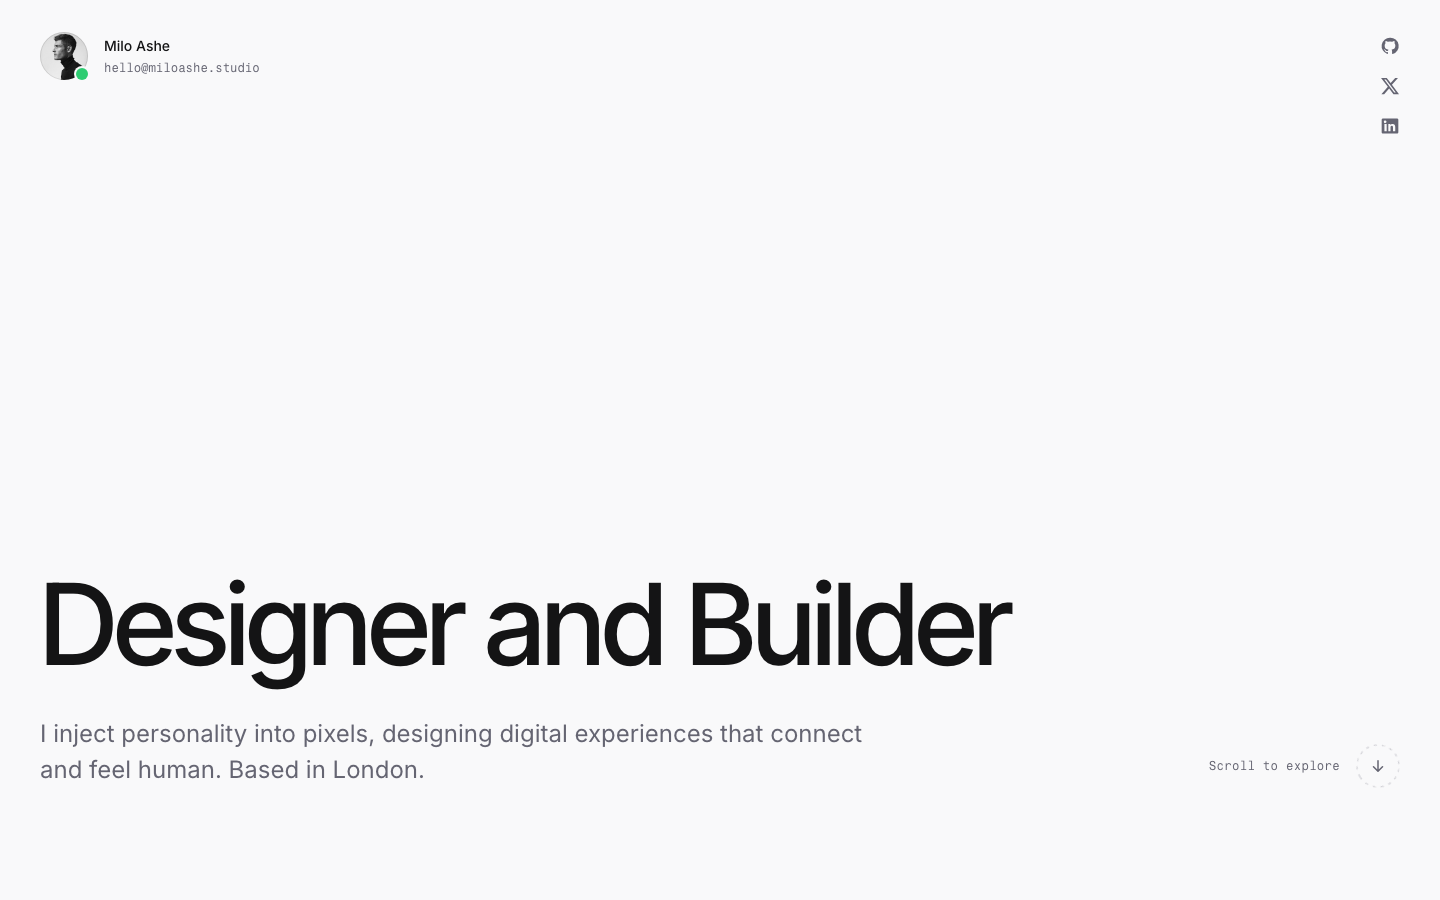
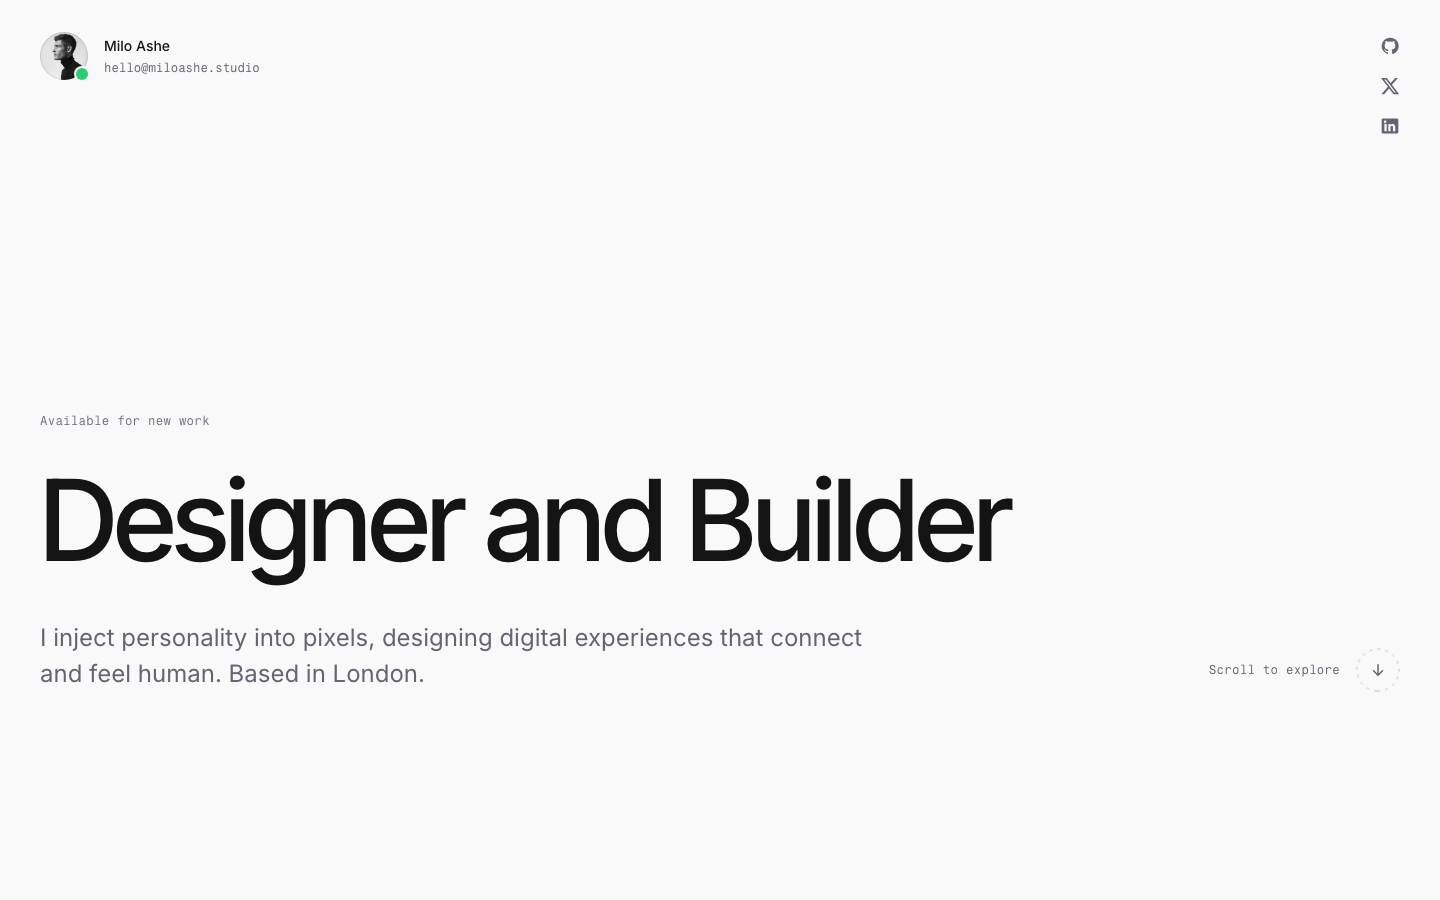
latest updates

Changed region(s): [[0.0312, 0.5289, 0.7188, 0.7778], [0.0312, 0.8089, 0.5938, 0.8711]]

diff --git a/files/resources/views/components/sections/hero.blade.php b/files/resources/views/components/sections/hero.blade.php
@@ -2,6 +2,7 @@
     'avatar' => '/images/avatar.jpg',
     'showStatus' => '1',
     'email' => 'hello@miloashe.studio',
+    'eyebrow' => 'Available for new work',
     'heading' => 'Designer and Builder',
     'intro' => 'I inject personality into pixels, designing digital experiences that connect and feel human. Based in London.',
     'showScroll' => '1',
@@ -10,11 +11,12 @@
 <!--
     The opening viewport: identity row pinned to the top (avatar with the
     green live dot, name and mono email, stacked social icons on the right),
-    then the giant statement headline anchored low with the intro copy and
-    the spinning scroll ring sharing the bottom edge.
+    then the statement block anchored low: a mono availability eyebrow, the
+    giant display headline, and a bottom rail carrying the intro copy and
+    the spinning scroll ring.
 -->
 <section id="top" class="relative">
-    <div class="mx-auto flex min-h-[92svh] w-full max-w-[100rem] flex-col justify-between px-5 pt-6 pb-10 sm:px-8 sm:pt-8 lg:px-10">
+    <div class="mx-auto flex min-h-[84svh] w-full max-w-[100rem] flex-col justify-between gap-16 px-5 pt-6 pb-12 sm:px-8 sm:pt-8 sm:pb-16 lg:px-10">
 
         <div class="flex items-start justify-between gap-6">
             <div class="flex items-center gap-4">
@@ -24,9 +26,9 @@
                     <span class="absolute right-0 bottom-0 size-3 rounded-full bg-live ring-2 ring-canvas"></span>
                     @endif
                 </span>
-                <span class="flex flex-col gap-1">
-                    <span class="text-sm font-medium text-ink">{{ $site->name }}</span>
-                    <a href="mailto:{{ $email }}" class="font-mono text-xs text-muted hover:text-ink">{{ $email }}</a>
+                <span class="flex min-w-0 flex-col gap-1">
+                    <span class="block text-sm font-medium text-ink">{{ $site->name }}</span>
+                    <span class="block font-mono text-xs text-muted"><a href="mailto:{{ $email }}" class="hover:text-ink">{{ $email }}</a></span>
                 </span>
             </div>
 
@@ -52,17 +54,21 @@
                         @if ($item->icon == 'github')
                         <svg viewBox="0 0 24 24" class="size-5 fill-current" aria-hidden="true"><path fill-rule="evenodd" d="M12 2a10 10 0 0 0-3.2 19.5c.5.1.7-.2.7-.5v-1.7C6.7 19.9 6.1 18 6.1 18c-.4-1.2-1.1-1.5-1.1-1.5-.9-.6.1-.6.1-.6 1 .1 1.5 1 1.5 1 .9 1.6 2.4 1.1 3 .9.1-.7.4-1.1.6-1.4-2.2-.3-4.6-1.1-4.6-5 0-1.1.4-2 1-2.7 0-.3-.4-1.3.1-2.7 0 0 .9-.3 2.8 1a9.5 9.5 0 0 1 5 0c1.9-1.3 2.8-1 2.8-1 .5 1.4.2 2.4.1 2.7.6.7 1 1.6 1 2.7 0 3.9-2.4 4.7-4.6 5 .4.3.7.9.7 1.9v2.8c0 .3.2.6.7.5A10 10 0 0 0 12 2Z" clip-rule="evenodd"/></svg>
                         @endif
-                        <span class="absolute top-1/2 left-1/2 size-[max(100%,2.75rem)] -translate-1/2 pointer-fine:hidden" aria-hidden="true"></span>
+                        <span class="absolute top-1/2 left-1/2 size-[max(100%,3rem)] -translate-1/2 pointer-fine:hidden" aria-hidden="true"></span>
                     </a>
                 </li>
                 @endforeach
             </ul>
         </div>
 
-        <div class="mt-16">
-            <h1 class="font-display text-[clamp(2.75rem,8vw,7.0625rem)]/[1.05] font-medium tracking-tight text-balance" data-reveal>{{ $heading }}</h1>
+        <div>
+            @if ($eyebrow)
+            <p class="font-mono text-xs tracking-wide text-faint" data-reveal>{{ $eyebrow }}</p>
+            @endif
 
-            <div class="mt-6 flex flex-wrap items-end justify-between gap-x-16 gap-y-10 sm:mt-8">
+            <h1 class="mt-6 font-display text-[clamp(2.75rem,8vw,7.0625rem)]/[1.05] font-medium tracking-tight text-balance sm:mt-8" data-reveal>{{ $heading }}</h1>
+
+            <div class="mt-8 flex flex-wrap items-end justify-between gap-x-16 gap-y-10 sm:mt-10">
                 <p class="max-w-[56ch] text-xl/8 text-pretty text-muted sm:text-2xl/9" data-reveal>{{ $intro }}</p>
 
                 @if ($showScroll)

diff --git a/files/resources/views/components/footer.blade.php b/files/resources/views/components/footer.blade.php
@@ -4,31 +4,35 @@
     'copyright' => 'All rights reserved.',
 ])
 <!--
-    The footer: the gem-cut mark linking home, the copyright line, the
-    persona's location with a live local-time clock, and text social links.
+    The footer, in two tiers: the gem-cut mark and the text social links sit
+    on the first line, then a hairline and a mono legal line carrying the
+    copyright and the persona's location with a live local-time clock.
 -->
 <footer class="border-t border-line">
-    <div class="mx-auto flex w-full max-w-[100rem] flex-wrap items-center justify-between gap-x-10 gap-y-6 px-5 py-10 sm:px-8 lg:px-10">
-        <a href="/" aria-label="Homepage" class="inline-flex items-center gap-3 text-ink">
-            <svg viewBox="0 0 32 32" class="size-6" aria-hidden="true"><circle cx="16" cy="16" r="14" fill="none" stroke="currentColor" stroke-width="2.75"/><path fill="currentColor" d="M 24.32 12.56 L 24.32 19.44 L 19.44 24.32 L 12.56 24.32 L 7.68 19.44 L 7.68 12.56 L 12.56 7.68 L 19.44 7.68 Z"/></svg>
-            <span class="text-sm font-medium">{{ $site->name }}</span>
-        </a>
+    <div class="mx-auto w-full max-w-[100rem] px-5 py-12 sm:px-8 sm:py-14 lg:px-10">
+        <div class="flex flex-wrap items-center justify-between gap-x-10 gap-y-6">
+            <a href="/" aria-label="Homepage" class="inline-flex items-center gap-3 text-sm font-medium text-ink">
+                <svg viewBox="0 0 32 32" class="size-6 shrink-0" aria-hidden="true"><circle cx="16" cy="16" r="14" fill="none" stroke="currentColor" stroke-width="2.75"/><path fill="currentColor" d="M 24.32 12.56 L 24.32 19.44 L 19.44 24.32 L 12.56 24.32 L 7.68 19.44 L 7.68 12.56 L 12.56 7.68 L 19.44 7.68 Z"/></svg>
+                {{ $site->name }}
+            </a>
 
-        <p class="font-mono text-xs text-faint">
-            {{ $location }}
-            @if ($showTime)
-            <span class="js-only">· <span data-local-time class="tabular-nums">00:00</span></span>
-            @endif
-        </p>
+            <ul role="list" class="flex flex-wrap items-center gap-x-6 gap-y-2 text-base sm:text-sm">
+                @foreach ($site->socials as $item)
+                <li>
+                    <a href="{{ $item->url }}" class="font-normal text-muted hover:text-ink">{{ $item->label }}</a>
+                </li>
+                @endforeach
+            </ul>
+        </div>
 
-        <ul role="list" class="flex items-center gap-6">
-            @foreach ($site->socials as $item)
-            <li>
-                <a href="{{ $item->url }}" class="text-sm font-normal text-muted hover:text-ink">{{ $item->label }}</a>
-            </li>
-            @endforeach
-        </ul>
-
-        <p class="w-full text-center font-mono text-xs text-faint sm:w-auto sm:text-right">© {{ $site->name }}. {{ $copyright }}</p>
+        <div class="mt-8 flex flex-wrap items-center justify-between gap-x-10 gap-y-2 border-t border-line pt-6 font-mono text-xs text-faint">
+            <p>© {{ $site->name }}. {{ $copyright }}</p>
+            <p>
+                {{ $location }}
+                @if ($showTime)
+                <span class="js-only">· <span data-local-time class="tabular-nums">00:00</span></span>
+                @endif
+            </p>
+        </div>
     </div>
 </footer>

diff --git a/files/resources/views/components/sections/work-body.blade.php b/files/resources/views/components/sections/work-body.blade.php
@@ -8,25 +8,26 @@
     'solution' => '',
 ])
 <!--
-    The case-study story: an overview with its display lede, then problem
-    and solution side by side. Content arrives bound from the works entry.
+    The case-study story on one 12-column editorial grid: a mono label rail
+    in the first two columns, the display lede beside it, and the supporting
+    prose in the last four. Problem and solution drop onto the same column
+    edges below, so the whole page reads down two clean gutters. Content
+    arrives bound from the works entry.
 -->
-<section class="py-12 sm:py-20">
+<section class="py-16 sm:pt-24 sm:pb-28">
     <div class="mx-auto w-full max-w-[100rem] px-5 sm:px-8 lg:px-10">
-        <div class="flex flex-wrap gap-x-16 gap-y-8 border-t border-line pt-10">
-            <h2 class="w-32 shrink-0 font-mono text-xs tracking-wide text-faint" data-reveal>{{ $overviewLabel }}</h2>
-            <div class="min-w-0 max-w-[62ch]">
-                <p class="font-display text-2xl/9 font-medium tracking-tight text-pretty sm:text-3xl/10" data-reveal>{{ $lede }}</p>
-                <p class="mt-6 text-base/7 text-pretty text-muted" data-reveal>{{ $overview }}</p>
-            </div>
+        <div class="grid grid-cols-1 gap-x-6 gap-y-8 border-t border-line pt-10 lg:grid-cols-12">
+            <h2 class="font-mono text-xs tracking-wide text-faint lg:col-span-2" data-reveal>{{ $overviewLabel }}</h2>
+            <p class="max-w-[34ch] font-display text-2xl/9 font-medium tracking-tight text-pretty sm:text-3xl/10 lg:col-span-6" data-reveal>{{ $lede }}</p>
+            <p class="max-w-[52ch] text-base/7 text-pretty text-muted lg:col-span-4" data-reveal>{{ $overview }}</p>
         </div>
 
-        <div class="mt-14 grid grid-cols-1 gap-x-6 gap-y-10 sm:mt-20 sm:grid-cols-2">
-            <div class="border-t border-line pt-8" data-reveal>
+        <div class="mt-16 grid grid-cols-1 gap-x-6 gap-y-10 sm:mt-24 lg:grid-cols-12">
+            <div class="border-t border-line pt-8 lg:col-span-6 lg:col-start-3" data-reveal>
                 <h2 class="font-mono text-xs tracking-wide text-faint">{{ $problemLabel }}</h2>
                 <p class="mt-5 max-w-[52ch] text-base/7 text-pretty text-muted">{{ $problem }}</p>
             </div>
-            <div class="border-t border-line pt-8" data-reveal>
+            <div class="border-t border-line pt-8 lg:col-span-4" data-reveal>
                 <h2 class="font-mono text-xs tracking-wide text-faint">{{ $solutionLabel }}</h2>
                 <p class="mt-5 max-w-[52ch] text-base/7 text-pretty text-muted">{{ $solution }}</p>
             </div>

diff --git a/files/resources/views/components/sections/work-header.blade.php b/files/resources/views/components/sections/work-header.blade.php
@@ -19,17 +19,17 @@
     four-column mono meta strip, and the full-width hero image. Content
     values arrive as bound attributes from the matched works entry.
 -->
-<section class="pt-8 pb-4 sm:pt-10">
+<section class="pt-8 sm:pt-10">
     <div class="mx-auto w-full max-w-[100rem] px-5 sm:px-8 lg:px-10">
         <a href="{{ $backUrl }}" class="group inline-flex items-center gap-2 font-mono text-xs text-muted hover:text-ink">
-            <svg viewBox="0 0 16 16" class="size-4 fill-current transition-transform duration-200 group-hover:-translate-x-0.5" aria-hidden="true"><path fill-rule="evenodd" d="M14 8a.75.75 0 0 1-.75.75H4.56l3.22 3.22a.75.75 0 1 1-1.06 1.06l-4.5-4.5a.75.75 0 0 1 0-1.06l4.5-4.5a.75.75 0 0 1 1.06 1.06L4.56 7.25h8.69A.75.75 0 0 1 14 8Z" clip-rule="evenodd"/></svg>
+            <svg viewBox="0 0 16 16" class="size-4 shrink-0 fill-current transition-transform duration-200 group-hover:-translate-x-0.5" aria-hidden="true"><path fill-rule="evenodd" d="M14 8a.75.75 0 0 1-.75.75H4.56l3.22 3.22a.75.75 0 1 1-1.06 1.06l-4.5-4.5a.75.75 0 0 1 0-1.06l4.5-4.5a.75.75 0 0 1 1.06 1.06L4.56 7.25h8.69A.75.75 0 0 1 14 8Z" clip-rule="evenodd"/></svg>
             {{ $backText }}
         </a>
 
         <h1 class="mt-12 max-w-[20ch] font-display text-5xl font-medium tracking-tight text-balance sm:mt-16 sm:text-7xl" data-reveal>{{ $title }}</h1>
         <p class="mt-5 max-w-[44ch] text-xl/8 text-pretty text-muted sm:text-2xl/9" data-reveal>{{ $tagline }}</p>
 
-        <dl class="mt-12 grid grid-cols-2 gap-x-8 gap-y-6 border-t border-line pt-8 sm:mt-16 lg:grid-cols-4" data-reveal>
+        <dl class="mt-12 grid grid-cols-2 gap-x-6 gap-y-6 border-t border-line pt-8 sm:mt-16 lg:grid-cols-4" data-reveal>
             <div class="flex flex-col gap-2">
                 <dt class="font-mono text-xs text-faint">{{ $yearLabel }}</dt>
                 <dd class="text-base font-medium text-ink tabular-nums sm:text-sm">{{ $year }}</dd>
@@ -48,7 +48,7 @@
             </div>
         </dl>
 
-        <div class="mt-10 overflow-hidden rounded-2xl bg-well" data-reveal>
+        <div class="mt-12 overflow-hidden rounded-2xl bg-well sm:mt-16" data-reveal>
             <img src="{{ $image }}" alt="{{ $imageAlt }}" width="1600" height="1062" class="aspect-video w-full object-cover">
         </div>
     </div>

diff --git a/files/resources/views/components/sections/testimonials.blade.php b/files/resources/views/components/sections/testimonials.blade.php
@@ -16,7 +16,7 @@
             @if ($showLink)
             <a href="{{ $linkUrl }}" class="group inline-flex items-center gap-2 text-sm font-medium text-muted hover:text-ink">
                 {{ $linkText }}
-                <svg viewBox="0 0 16 16" class="size-4 fill-current transition-transform duration-200 group-hover:translate-x-0.5" aria-hidden="true"><path fill-rule="evenodd" d="M2 8a.75.75 0 0 1 .75-.75h8.69L8.22 4.03a.75.75 0 0 1 1.06-1.06l4.5 4.5a.75.75 0 0 1 0 1.06l-4.5 4.5a.75.75 0 1 1-1.06-1.06l3.22-3.22H2.75A.75.75 0 0 1 2 8Z" clip-rule="evenodd"/></svg>
+                <svg viewBox="0 0 16 16" class="size-4 shrink-0 fill-current transition-transform duration-200 group-hover:translate-x-0.5" aria-hidden="true"><path fill-rule="evenodd" d="M2 8a.75.75 0 0 1 .75-.75h8.69L8.22 4.03a.75.75 0 0 1 1.06-1.06l4.5 4.5a.75.75 0 0 1 0 1.06l-4.5 4.5a.75.75 0 1 1-1.06-1.06l3.22-3.22H2.75A.75.75 0 0 1 2 8Z" clip-rule="evenodd"/></svg>
             </a>
             @endif
         </div>
@@ -27,7 +27,7 @@
                 <blockquote class="relative max-w-[36ch] font-display text-xl/8 font-medium tracking-tight text-pretty text-ink before:absolute before:inline before:-translate-x-full before:content-['\201C'] after:inline after:content-['\201D']">{{ $item->quote }}</blockquote>
                 <div class="flex items-center gap-3">
                     <img src="{{ $item->avatar }}" alt="" width="40" height="40" class="size-10 rounded-full object-cover outline-1 -outline-offset-1 outline-ink/10">
-                    <div class="text-sm">
+                    <div class="text-base sm:text-sm">
                         <p class="font-medium text-ink">{{ $item->name }}</p>
                         <p class="text-muted">{{ $item->role }}</p>
                     </div>

diff --git a/files/resources/views/components/sections/writing-header.blade.php b/files/resources/views/components/sections/writing-header.blade.php
@@ -6,13 +6,15 @@
     'readTime' => '',
 ])
 <!--
-    The article opener: back link, mono date and read time, and the
-    display title. Content values are bound from the matched entry.
+    The article opener: the back link sits on the page's left edge, the way
+    every other page in the template anchors it, then the mono date and read
+    time and the display title open the centred reading column the body
+    continues. Content values are bound from the matched entry.
 -->
 <section class="pt-8 sm:pt-10">
     <div class="mx-auto w-full max-w-[100rem] px-5 sm:px-8 lg:px-10">
         <a href="{{ $backUrl }}" class="group inline-flex items-center gap-2 font-mono text-xs text-muted hover:text-ink">
-            <svg viewBox="0 0 16 16" class="size-4 fill-current transition-transform duration-200 group-hover:-translate-x-0.5" aria-hidden="true"><path fill-rule="evenodd" d="M14 8a.75.75 0 0 1-.75.75H4.56l3.22 3.22a.75.75 0 1 1-1.06 1.06l-4.5-4.5a.75.75 0 0 1 0-1.06l4.5-4.5a.75.75 0 0 1 1.06 1.06L4.56 7.25h8.69A.75.75 0 0 1 14 8Z" clip-rule="evenodd"/></svg>
+            <svg viewBox="0 0 16 16" class="size-4 shrink-0 fill-current transition-transform duration-200 group-hover:-translate-x-0.5" aria-hidden="true"><path fill-rule="evenodd" d="M14 8a.75.75 0 0 1-.75.75H4.56l3.22 3.22a.75.75 0 1 1-1.06 1.06l-4.5-4.5a.75.75 0 0 1 0-1.06l4.5-4.5a.75.75 0 0 1 1.06 1.06L4.56 7.25h8.69A.75.75 0 0 1 14 8Z" clip-rule="evenodd"/></svg>
             {{ $backText }}
         </a>
 

diff --git a/files/resources/views/components/sections/about.blade.php b/files/resources/views/components/sections/about.blade.php
@@ -13,16 +13,16 @@
     <div class="mx-auto w-full max-w-[100rem] px-5 sm:px-8 lg:px-10">
         <h2 class="font-mono text-xs tracking-wide text-faint" data-reveal>{{ $label }}</h2>
 
-        <div class="mt-10 flex flex-wrap items-start justify-between gap-x-16 gap-y-12">
-            <div class="min-w-0">
-                <p class="max-w-[24ch] font-display text-4xl/[1.1] font-medium tracking-tight text-balance sm:text-5xl/[1.08]" data-reveal>
+        <div class="mt-10 grid grid-cols-1 gap-x-6 gap-y-12 lg:grid-cols-12">
+            <div class="min-w-0 lg:col-span-7">
+                <p class="max-w-[24ch] font-display text-4xl/[1.1] font-medium tracking-tight text-balance sm:text-5xl/[1.08] lg:text-[3.5rem]/[1.06]" data-reveal>
                     {{ $headingInk }}<br>
                     <span class="text-muted">{{ $headingMuted }}</span>
                 </p>
                 <p class="mt-8 max-w-[52ch] text-lg/8 text-pretty text-muted" data-reveal>{{ $body }}</p>
             </div>
 
-            <ul role="list" class="flex shrink-0 flex-col gap-4 pt-2" data-reveal>
+            <ul role="list" class="flex flex-col gap-4 lg:col-span-5 lg:col-start-8 lg:pt-3" data-reveal>
                 @foreach ($site->facts as $item)
                 <li class="font-mono text-sm text-muted">({{ $item->text }})</li>
                 @endforeach

diff --git a/files/resources/views/components/sections/writings-list.blade.php b/files/resources/views/components/sections/writings-list.blade.php
@@ -18,12 +18,12 @@
             @if ($showAll)
             <a href="{{ $allUrl }}" class="group inline-flex items-center gap-2 text-sm font-medium text-muted hover:text-ink">
                 {{ $allText }}
-                <svg viewBox="0 0 16 16" class="size-4 fill-current transition-transform duration-200 group-hover:translate-x-0.5" aria-hidden="true"><path fill-rule="evenodd" d="M2 8a.75.75 0 0 1 .75-.75h8.69L8.22 4.03a.75.75 0 0 1 1.06-1.06l4.5 4.5a.75.75 0 0 1 0 1.06l-4.5 4.5a.75.75 0 1 1-1.06-1.06l3.22-3.22H2.75A.75.75 0 0 1 2 8Z" clip-rule="evenodd"/></svg>
+                <svg viewBox="0 0 16 16" class="size-4 shrink-0 fill-current transition-transform duration-200 group-hover:translate-x-0.5" aria-hidden="true"><path fill-rule="evenodd" d="M2 8a.75.75 0 0 1 .75-.75h8.69L8.22 4.03a.75.75 0 0 1 1.06-1.06l4.5 4.5a.75.75 0 0 1 0 1.06l-4.5 4.5a.75.75 0 1 1-1.06-1.06l3.22-3.22H2.75A.75.75 0 0 1 2 8Z" clip-rule="evenodd"/></svg>
             </a>
             @endif
         </div>
 
-        <ul role="list" class="mt-8 border-t border-line">
+        <ul role="list" class="mt-10 border-t border-line">
             @foreach ($writings as $item)
             <li class="border-b border-line" data-reveal>
                 <a href="{{ $item->link }}" class="group flex flex-wrap items-baseline gap-x-8 gap-y-2 py-6 sm:flex-nowrap sm:py-7">

diff --git a/files/resources/views/components/sections/works-grid.blade.php b/files/resources/views/components/sections/works-grid.blade.php
@@ -1,15 +1,17 @@
-@props(['headingLevel' => 'Selected works'])
+@props(['label' => 'Selected works'])
 <!--
-    The work grid: two columns of large rounded image cards. Hovering a card
+    The work grid: a mono section label, then two columns of large rounded
+    image cards. Hovering a card
     eases the image up to scale 1.03, raises the white ticker pill with its
     scrolling year and category strip, and shows the project-name chip. On
     touch screens both chips stay visible. Data comes from the global works
     collection; each entry's link points at its detail page.
 -->
-<section id="works" class="pb-16 sm:pb-24">
-    <h2 class="sr-only">{{ $headingLevel }}</h2>
+<section id="works" class="py-16 sm:py-28">
     <div class="mx-auto w-full max-w-[100rem] px-5 sm:px-8 lg:px-10">
-        <ul role="list" class="grid grid-cols-1 gap-6 sm:grid-cols-2">
+        <h2 class="font-mono text-xs tracking-wide text-faint" data-reveal>{{ $label }}</h2>
+
+        <ul role="list" class="mt-10 grid grid-cols-1 gap-6 sm:grid-cols-2">
             @foreach ($works as $item)
             <li data-reveal>
                 <a href="{{ $item->link }}" class="group relative block overflow-hidden rounded-2xl bg-well">

diff --git a/files/resources/views/components/sections/page-header.blade.php b/files/resources/views/components/sections/page-header.blade.php
@@ -9,10 +9,10 @@
     A simple page opener for secondary pages: back link, mono label,
     display heading, and an optional standfirst.
 -->
-<section class="pt-8 pb-4 sm:pt-10">
+<section class="pt-8 sm:pt-10">
     <div class="mx-auto w-full max-w-[100rem] px-5 sm:px-8 lg:px-10">
         <a href="{{ $backUrl }}" class="group inline-flex items-center gap-2 font-mono text-xs text-muted hover:text-ink">
-            <svg viewBox="0 0 16 16" class="size-4 fill-current transition-transform duration-200 group-hover:-translate-x-0.5" aria-hidden="true"><path fill-rule="evenodd" d="M14 8a.75.75 0 0 1-.75.75H4.56l3.22 3.22a.75.75 0 1 1-1.06 1.06l-4.5-4.5a.75.75 0 0 1 0-1.06l4.5-4.5a.75.75 0 0 1 1.06 1.06L4.56 7.25h8.69A.75.75 0 0 1 14 8Z" clip-rule="evenodd"/></svg>
+            <svg viewBox="0 0 16 16" class="size-4 shrink-0 fill-current transition-transform duration-200 group-hover:-translate-x-0.5" aria-hidden="true"><path fill-rule="evenodd" d="M14 8a.75.75 0 0 1-.75.75H4.56l3.22 3.22a.75.75 0 1 1-1.06 1.06l-4.5-4.5a.75.75 0 0 1 0-1.06l4.5-4.5a.75.75 0 0 1 1.06 1.06L4.56 7.25h8.69A.75.75 0 0 1 14 8Z" clip-rule="evenodd"/></svg>
             {{ $backText }}
         </a>
 

diff --git a/files/resources/views/components/sections/contact-cta.blade.php b/files/resources/views/components/sections/contact-cta.blade.php
@@ -12,7 +12,7 @@
 <section id="contact" class="border-t border-line py-20 sm:py-32">
     <div class="mx-auto w-full max-w-[100rem] px-5 text-center sm:px-8 lg:px-10">
         <h2 class="font-mono text-xs tracking-wide text-faint" data-reveal>{{ $label }}</h2>
-        <p class="mx-auto mt-8 max-w-[24ch] font-display text-4xl/[1.1] font-medium tracking-tight text-balance sm:text-5xl/[1.08]" data-reveal>{{ $heading }}</p>
+        <p class="mx-auto mt-8 max-w-[24ch] font-display text-4xl/[1.1] font-medium tracking-tight text-balance sm:text-5xl/[1.08] lg:text-[3.5rem]/[1.06]" data-reveal>{{ $heading }}</p>
         <p class="mx-auto mt-6 max-w-[48ch] text-lg text-pretty text-muted" data-reveal>{{ $body }}</p>
         <div class="mt-10" data-reveal>
             <a href="{{ $buttonUrl }}" class="inline-flex items-center rounded-full bg-accent px-7 py-3.5 text-base font-medium text-accent-ink hover:bg-ink/85 focus-visible:outline-2 focus-visible:outline-offset-2 focus-visible:outline-ink">{{ $buttonText }}</a>

diff --git a/files/resources/views/components/sections/writing-body.blade.php b/files/resources/views/components/sections/writing-body.blade.php
@@ -8,11 +8,11 @@
     The article body: the entry's stored HTML inside the prose styles, then
     the next-post pointer. Both values are bound from the matched entry.
 -->
-<section class="py-12 sm:py-16">
+<section class="pt-10 pb-16 sm:pt-12 sm:pb-28">
     <div class="mx-auto w-full max-w-[100rem] px-5 sm:px-8 lg:px-10">
         <div class="prose mx-auto max-w-[46rem]">{!! $content !!}</div>
 
-        <div class="mx-auto mt-16 max-w-[46rem] border-t border-line pt-8 sm:mt-20">
+        <div class="mx-auto mt-16 max-w-[46rem] border-t border-line pt-8 sm:mt-24">
             <p class="font-mono text-xs tracking-wide text-faint">{{ $nextLabel }}</p>
             <a href="{{ $nextLink }}" class="group mt-4 flex items-baseline justify-between gap-6">
                 <span class="font-display text-2xl font-medium tracking-tight text-ink sm:text-3xl">{{ $nextTitle }}</span>
